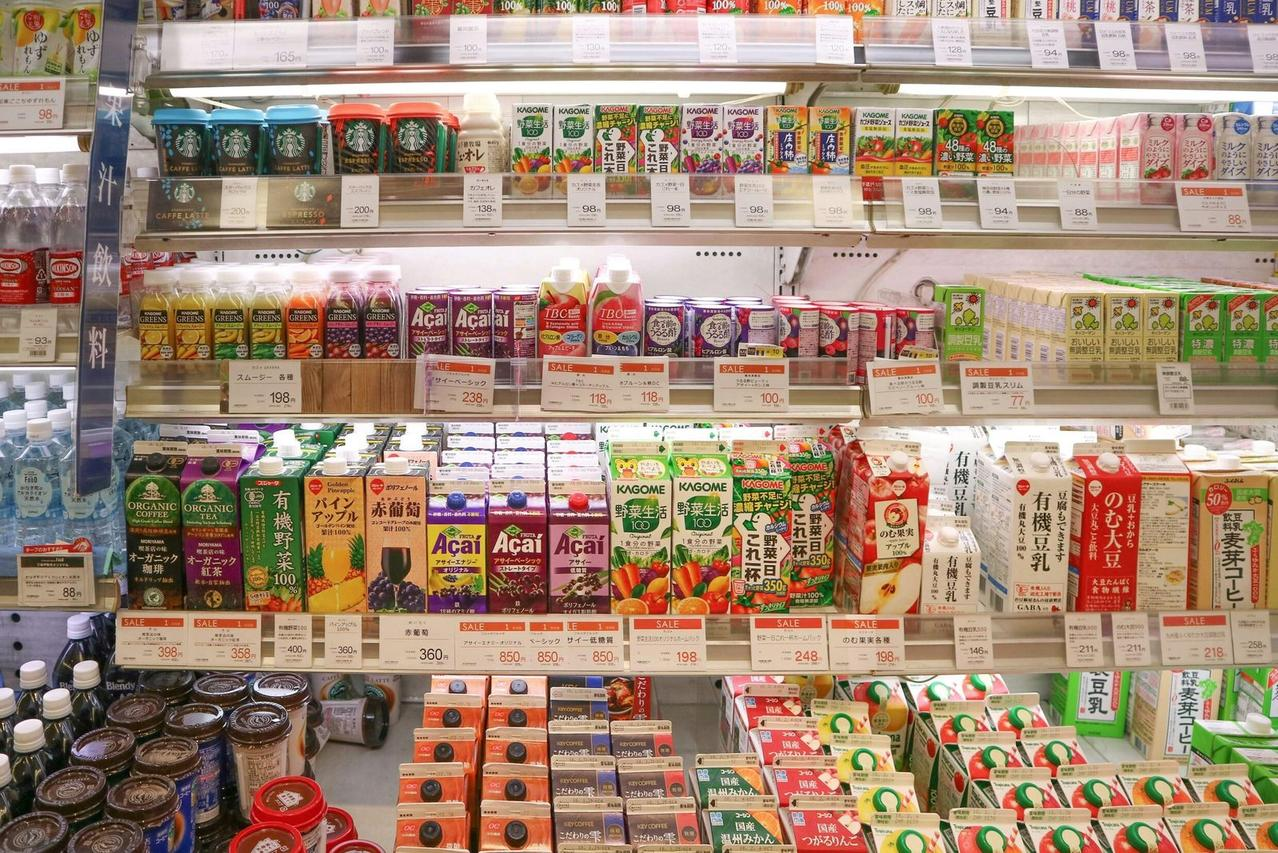
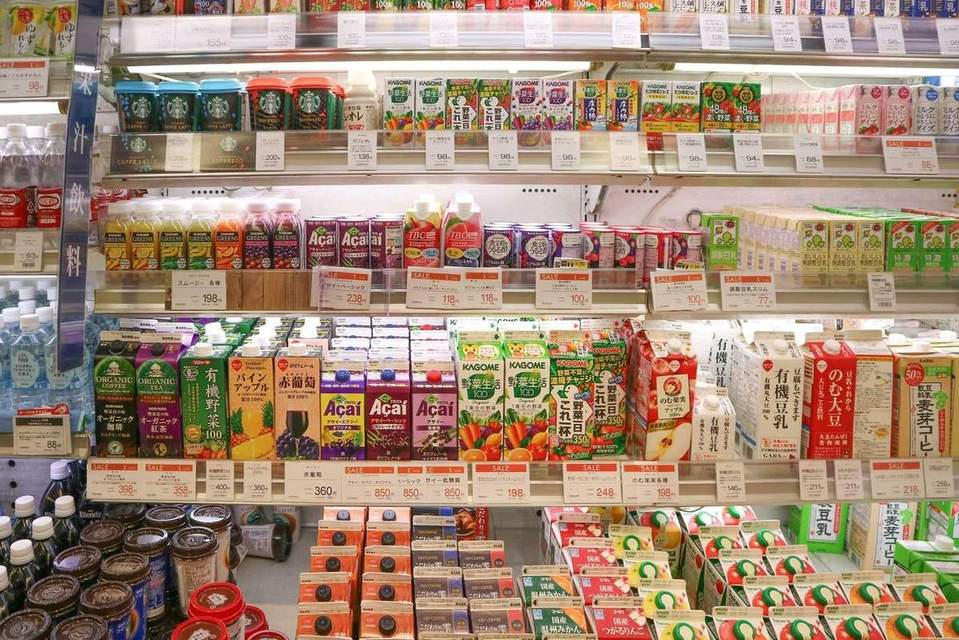
perf: defer scripts, dequeue unneeded assets, and optimize hero image to 130KB

diff --git a/wp-content/themes/ukm-toko-theme/inc/performance.php b/wp-content/themes/ukm-toko-theme/inc/performance.php
@@ -245,3 +245,25 @@ function ukm_toko_start_html_minify() {
 }
 add_action( 'template_redirect', 'ukm_toko_start_html_minify', 0 );
 
+/**
+ * 13. Dequeue Unneeded Assets on Frontend & Defer Non-Critical Scripts
+ */
+function ukm_toko_optimize_scripts() {
+	if ( ! is_admin() ) {
+		wp_dequeue_style( 'woocommerce-blocktheme' );
+		wp_dequeue_script( 'jquery-migrate' );
+	}
+}
+add_action( 'wp_enqueue_scripts', 'ukm_toko_optimize_scripts', 100 );
+
+function ukm_toko_defer_frontend_scripts( $tag, $handle, $src ) {
+	if ( is_admin() ) {
+		return $tag;
+	}
+	if ( strpos( $tag, 'defer' ) !== false || strpos( $tag, 'async' ) !== false ) {
+		return $tag;
+	}
+	return str_replace( ' src', ' defer src', $tag );
+}
+add_filter( 'script_loader_tag', 'ukm_toko_defer_frontend_scripts', 10, 3 );
+
